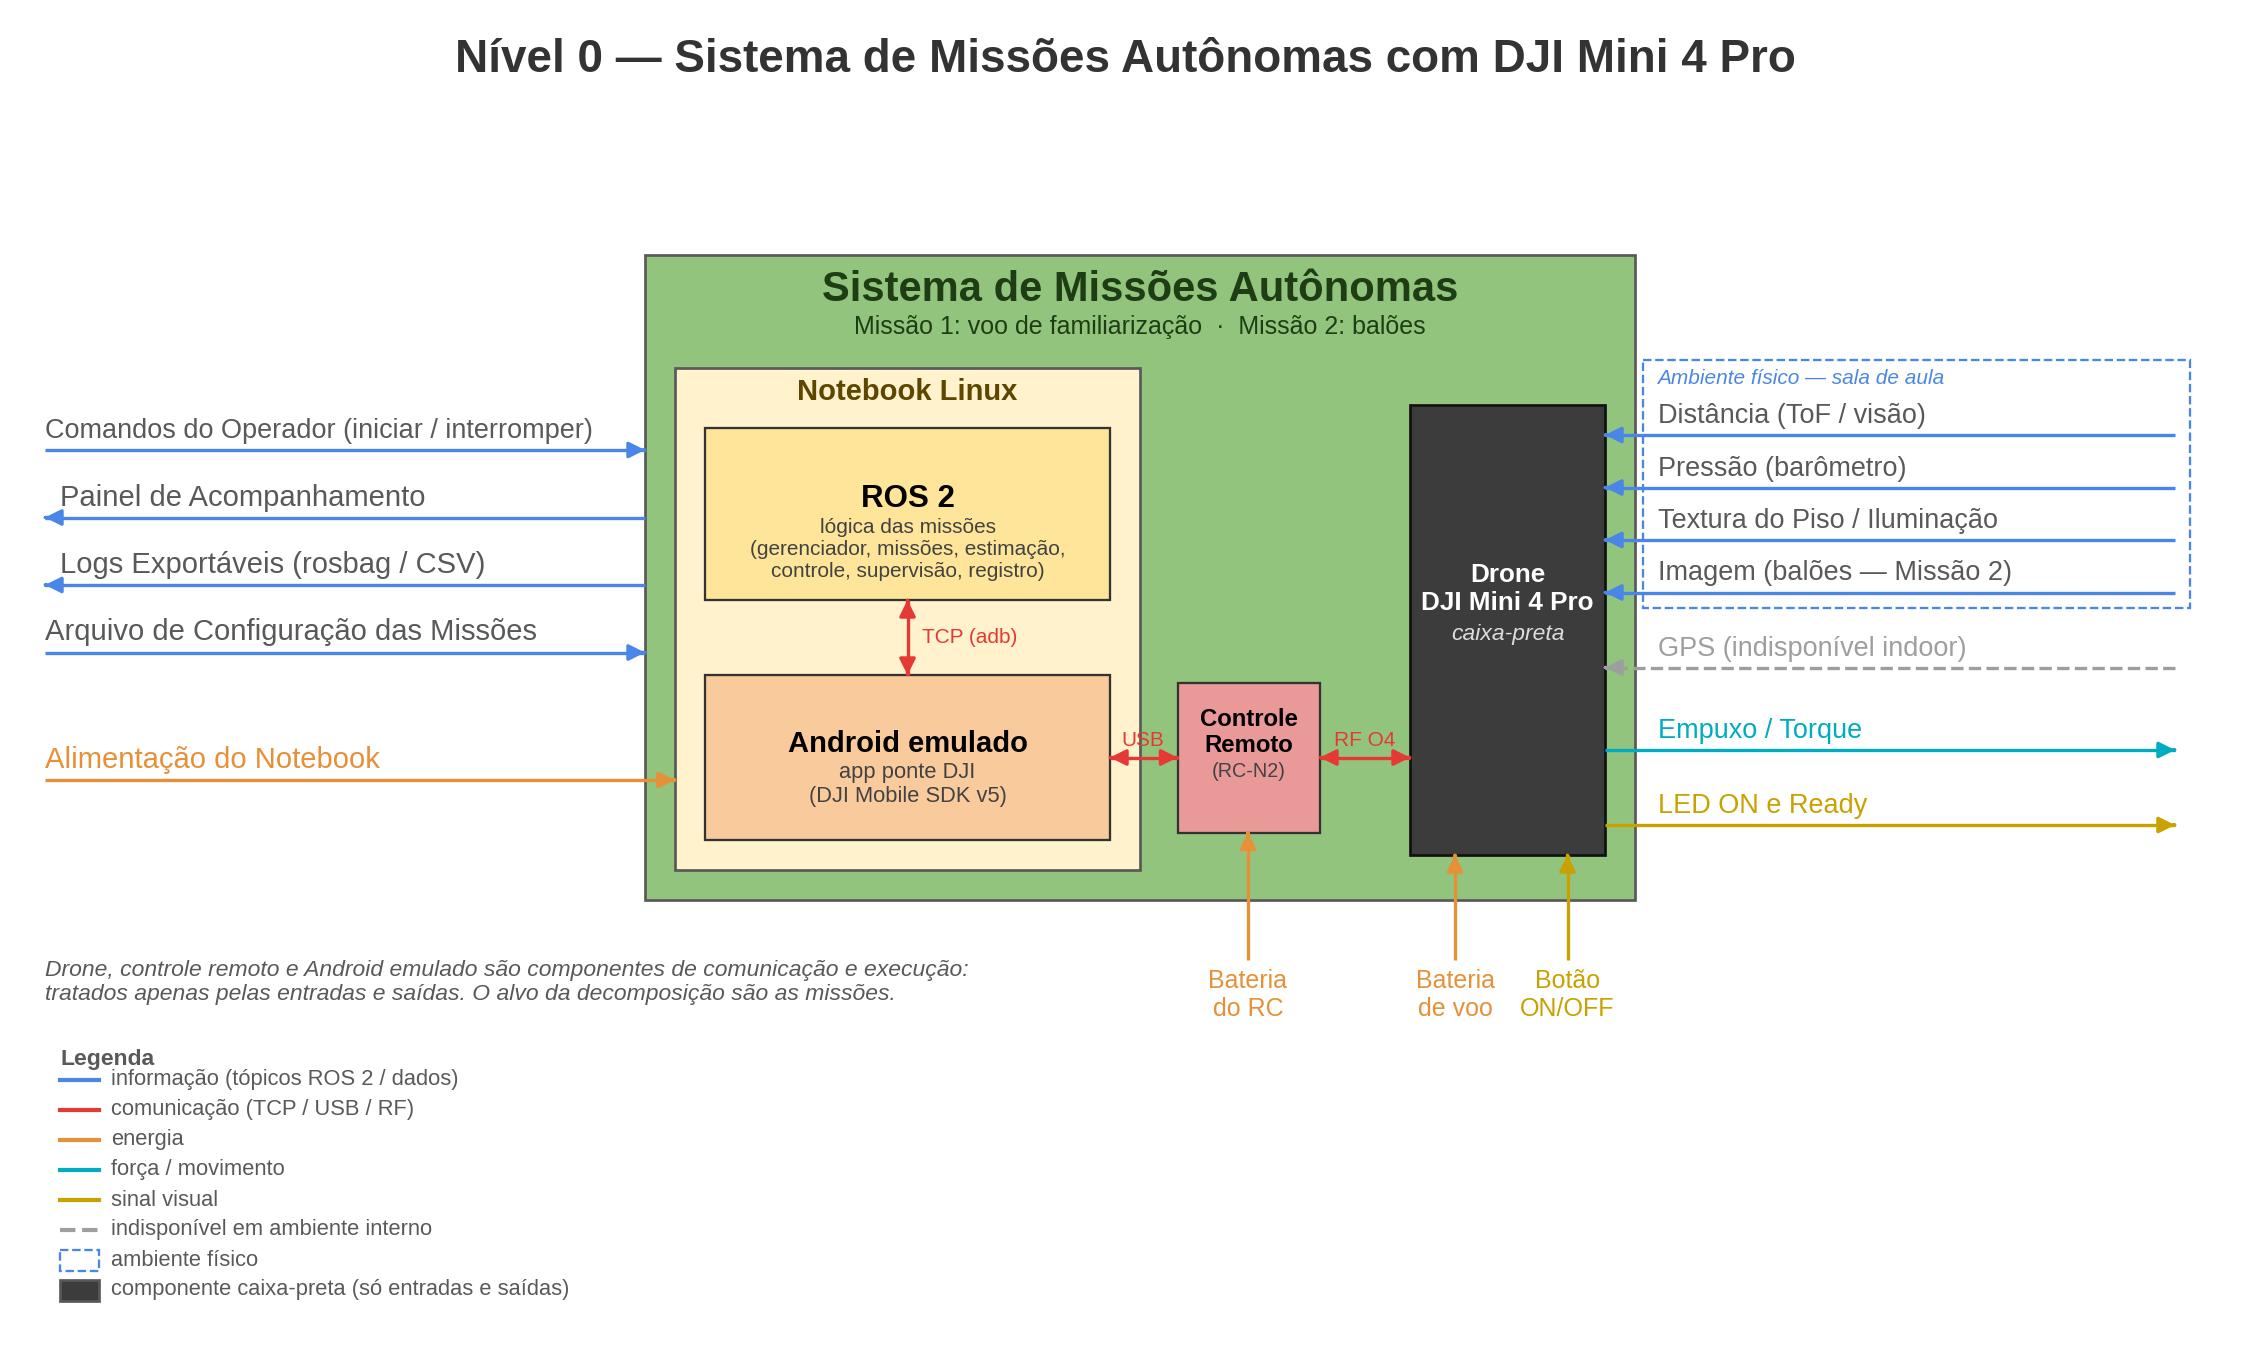
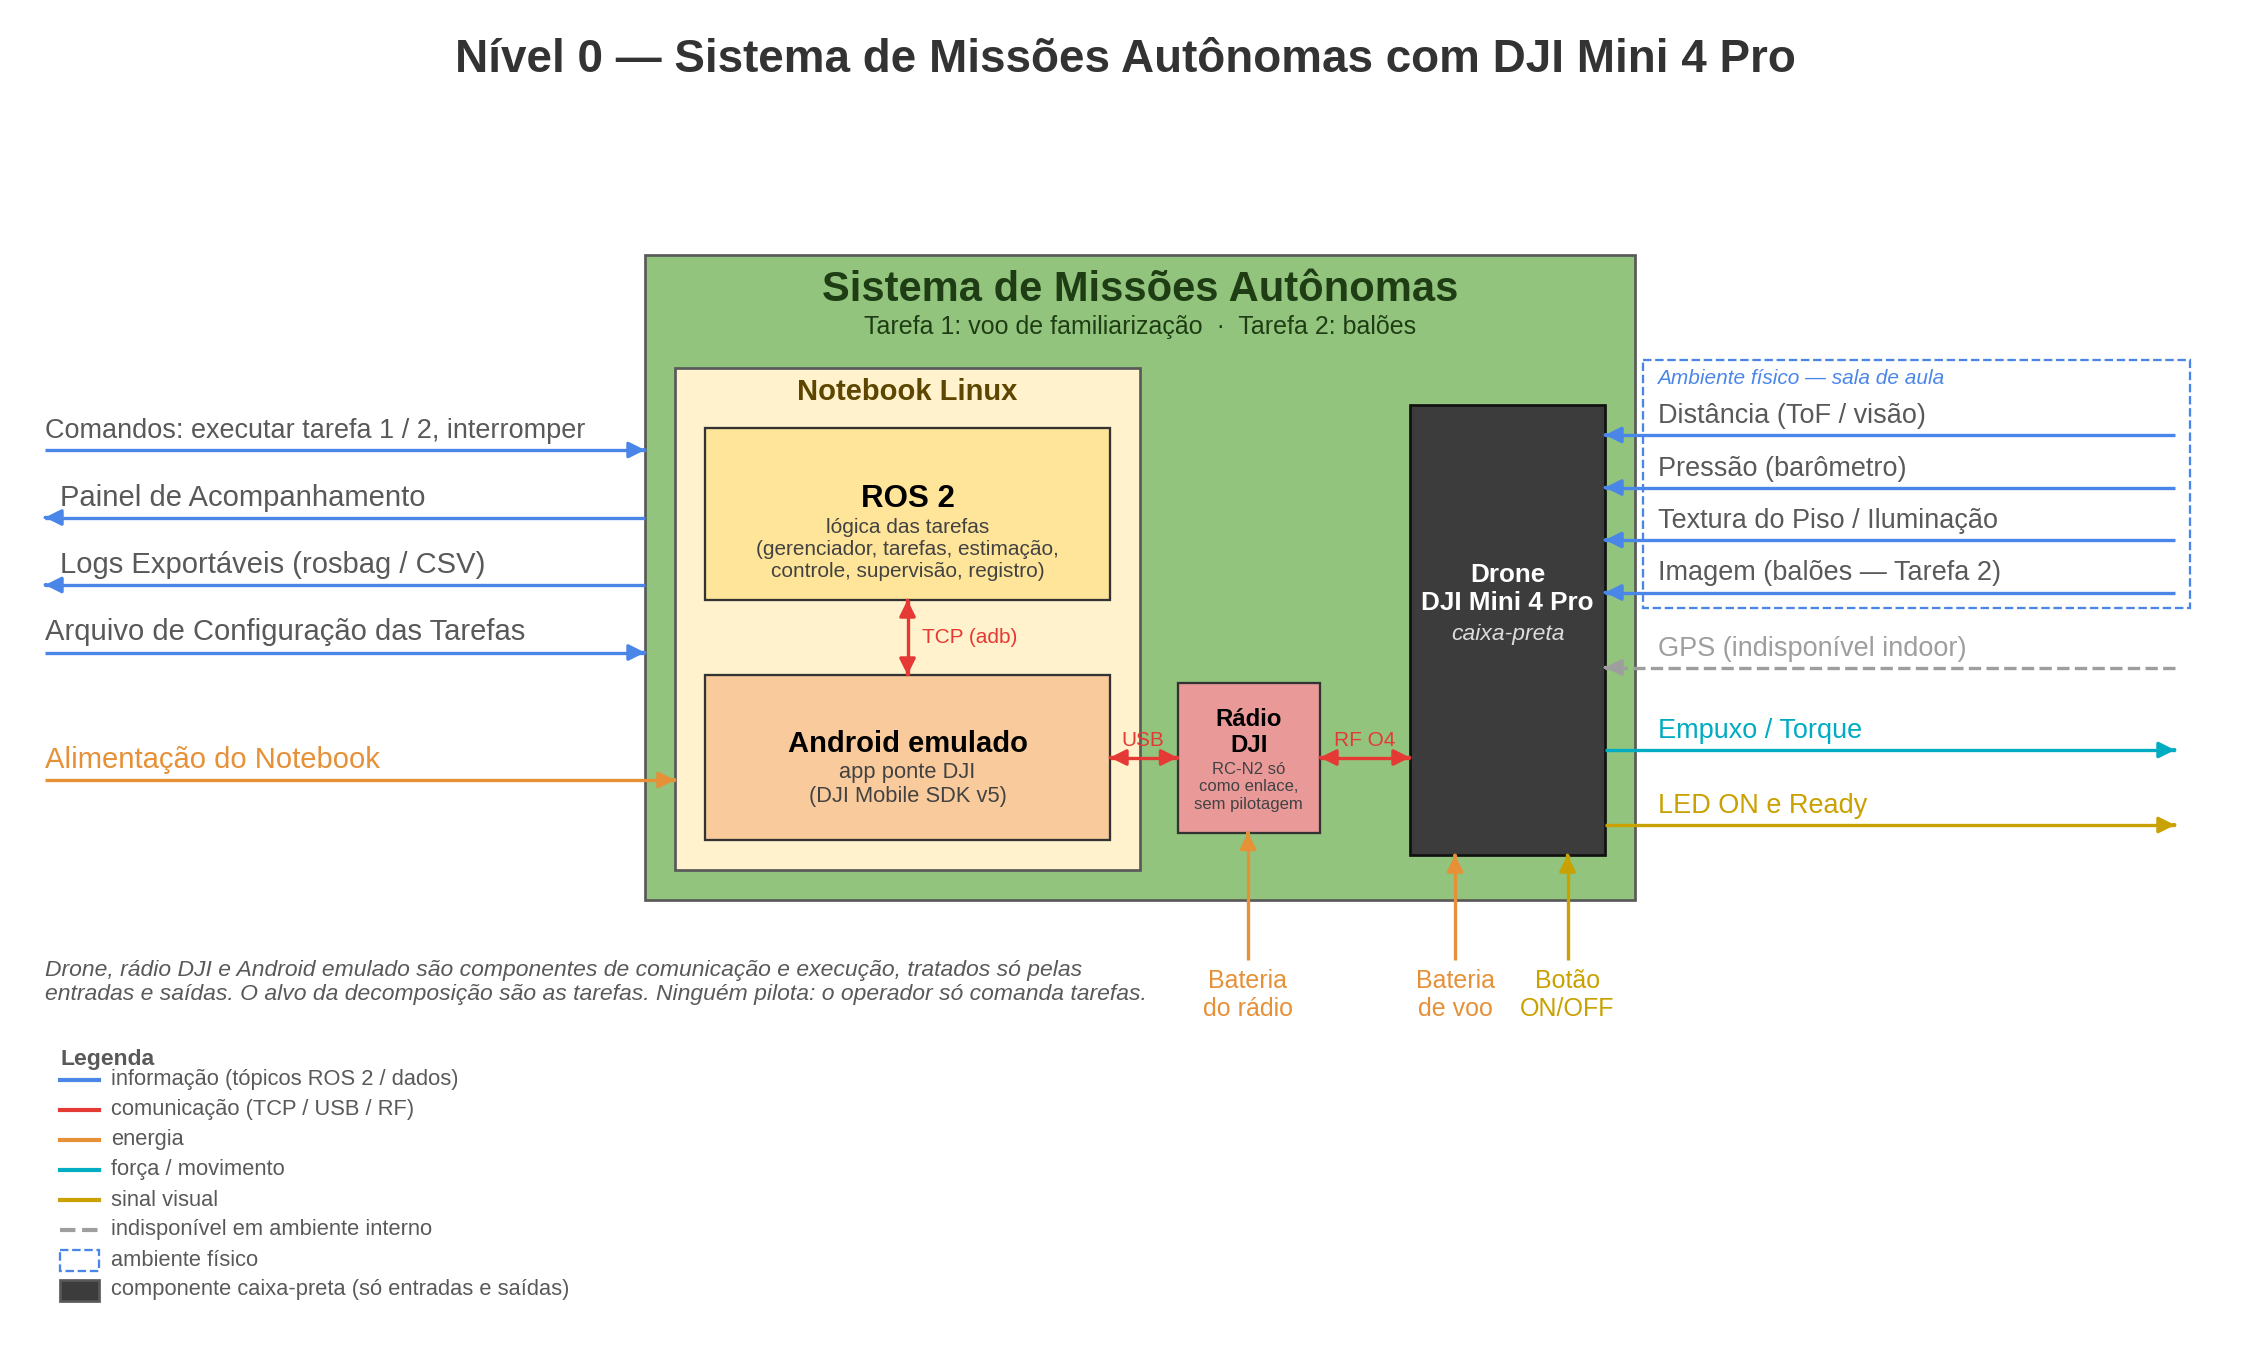
Diagramas: operador comanda tarefas, RC vira só enlace de rádio
Sem pilotagem: o operador só envia "executar tarefa 1/2" ou "interromper".
O RC-N2 continua fisicamente necessário como rádio do Mobile SDK (§6 do
enunciado), mas não é mais usado como controle.

diff --git a/diagramas/gerar_diagramas.py b/diagramas/gerar_diagramas.py
@@ -83,19 +83,19 @@ def nivel_0():
     # sistema de interesse
     c.box(430, 170, 1090, 600, "#93C47D")
     c.text(760, 180, "Sistema de Missões Autônomas", fs=20, ha="center", va="top", color="#1E3D14", weight="bold")
-    c.text(760, 210, "Missão 1: voo de familiarização  ·  Missão 2: balões", fs=12, ha="center", va="top", color="#1E3D14")
+    c.text(760, 210, "Tarefa 1: voo de familiarização  ·  Tarefa 2: balões", fs=12, ha="center", va="top", color="#1E3D14")
 
     # notebook
     c.box(450, 245, 760, 580, "#FFF2CC")
     c.text(605, 252, "Notebook Linux", fs=14, ha="center", va="top", weight="bold", color="#5D4600")
-    c.bloco(470, 285, 740, 400, "#FFE599", "ROS 2", "lógica das missões\n(gerenciador, missões, estimação,\ncontrole, supervisão, registro)",
+    c.bloco(470, 285, 740, 400, "#FFE599", "ROS 2", "lógica das tarefas\n(gerenciador, tarefas, estimação,\ncontrole, supervisão, registro)",
             fs=15, fs_sub=10)
     c.bloco(470, 450, 740, 560, "#F9CB9C", "Android emulado", "app ponte DJI\n(DJI Mobile SDK v5)", fs=14, fs_sub=10.5)
     c.arrow([(605, 400), (605, 450)], color=COM, both=True)
     c.text(615, 425, "TCP (adb)", fs=10, color=COM, va="center")
 
     # controle remoto e drone
-    c.bloco(785, 455, 880, 555, "#EA9999", "Controle\nRemoto", "(RC-N2)", fs=11.5, fs_sub=9.5)
+    c.bloco(785, 455, 880, 555, "#EA9999", "Rádio\nDJI", "RC-N2 só\ncomo enlace,\nsem pilotagem", fs=11.5, fs_sub=8)
     c.arrow([(740, 505), (785, 505)], color=COM, both=True)
     c.text(762, 500, "USB", fs=10, color=COM, ha="center")
     c.box(940, 270, 1070, 570, CAIXA_PRETA, ec="#111111", z=2)
@@ -106,13 +106,13 @@ def nivel_0():
 
     # entradas e saídas de informação (esquerda)
     c.arrow([(30, 300), (430, 300)], color=INFO)
-    c.text(30, 296, "Comandos do Operador (iniciar / interromper)", fs=13)
+    c.text(30, 296, "Comandos: executar tarefa 1 / 2, interromper", fs=13)
     c.arrow([(430, 345), (30, 345)], color=INFO)
     c.text(40, 341, "Painel de Acompanhamento", fs=14)
     c.arrow([(430, 390), (30, 390)], color=INFO)
     c.text(40, 386, "Logs Exportáveis (rosbag / CSV)", fs=14)
     c.arrow([(30, 435), (430, 435)], color=INFO)
-    c.text(30, 431, "Arquivo de Configuração das Missões", fs=14)
+    c.text(30, 431, "Arquivo de Configuração das Tarefas", fs=14)
     c.arrow([(30, 520), (450, 520)], color=EN)
     c.text(30, 516, "Alimentação do Notebook", fs=14, color=EN)
 
@@ -120,7 +120,7 @@ def nivel_0():
     c.box(1095, 240, 1460, 405, "none", ec=INFO, ls="--", lw=1.1, fill=False)
     c.text(1105, 246, "Ambiente físico — sala de aula", fs=10, va="top", color=INFO, style="italic")
     for y, nome in [(290, "Distância (ToF / visão)"), (325, "Pressão (barômetro)"),
-                    (360, "Textura do Piso / Iluminação"), (395, "Imagem (balões — Missão 2)")]:
+                    (360, "Textura do Piso / Iluminação"), (395, "Imagem (balões — Tarefa 2)")]:
         c.arrow([(1450, y), (1070, y)], color=INFO)
         c.text(1105, y - 4, nome, fs=13)
     c.arrow([(1450, 445), (1070, 445)], color=LIGHT, ls="--")
@@ -131,13 +131,13 @@ def nivel_0():
     c.text(1105, 546, "LED ON e Ready", fs=13, color=VIS)
 
     # energia e ação manual (abaixo)
-    for x, nome, cor, alvo in [(832, "Bateria\ndo RC", EN, 555), (970, "Bateria\nde voo", EN, 570),
+    for x, nome, cor, alvo in [(832, "Bateria\ndo rádio", EN, 555), (970, "Bateria\nde voo", EN, 570),
                                (1045, "Botão\nON/OFF", VIS, 570)]:
         c.arrow([(x, 640), (x, alvo)], color=cor)
         c.text(x, 646, nome, fs=12, ha="center", va="top", color=cor)
 
-    c.text(30, 640, "Drone, controle remoto e Android emulado são componentes de comunicação e execução:\n"
-                    "tratados apenas pelas entradas e saídas. O alvo da decomposição são as missões.",
+    c.text(30, 640, "Drone, rádio DJI e Android emulado são componentes de comunicação e execução, tratados só pelas\n"
+                    "entradas e saídas. O alvo da decomposição são as tarefas. Ninguém pilota: o operador só comanda tarefas.",
            fs=11, va="top", style="italic")
     legenda(c, 40, 720)
     c.save("nivel_0.png")
@@ -145,14 +145,14 @@ def nivel_0():
 
 # ------------------------------------------------------------------ Nível 1
 NOS_SUPERIORES = [
-    ("Interface do\nOperador", "painel; selecionar missão,\niniciar / interromper", "#D9EAD3",
-     ["pub /operador/comando", "sub /missao/status", "sub /falhas"]),
-    ("Gerenciador\nde Missões", "configuração, seleção da\nmissão, estados globais", "#FFD966",
-     ["pub /missao/ativa", "pub /dji/acao", "sub /operador/comando", "sub /missao/evento", "sub /falhas"]),
-    ("Missão 1", "voo de familiarização\nA→B→C→D→A, 4 × 60 s", "#FCE5CD",
-     ["pub /setpoint", "pub /missao/evento", "sub /estado", "sub /missao/ativa"]),
-    ("Missão 2", "balões: busca, aproximação\n0 < d ≤ 5 cm por 60 s", "#FCE5CD",
-     ["pub /setpoint", "pub /missao/evento", "sub /estado", "sub /alvos", "sub /missao/ativa"]),
+    ("Interface do\nOperador", "executar tarefa 1 / 2,\ninterromper; painel", "#D9EAD3",
+     ["pub /operador/comando", "sub /tarefa/status", "sub /falhas"]),
+    ("Gerenciador\nde Tarefas", "configuração, ativa a tarefa\npedida, estados globais", "#FFD966",
+     ["pub /tarefa/ativa", "pub /tarefa/status", "pub /dji/acao", "sub /operador/comando", "sub /tarefa/evento", "sub /falhas"]),
+    ("Tarefa 1", "voo de familiarização\nA→B→C→D→A, 4 × 60 s", "#FCE5CD",
+     ["pub /setpoint", "pub /tarefa/evento", "sub /estado", "sub /tarefa/ativa"]),
+    ("Tarefa 2", "balões: busca, aproximação\n0 < d ≤ 5 cm por 60 s", "#FCE5CD",
+     ["pub /setpoint", "pub /tarefa/evento", "sub /estado", "sub /alvos", "sub /tarefa/ativa"]),
     ("Registro", "rosbag2 + CSV", "#D9D9D9",
      ["sub (todos os", "tópicos)"]),
 ]
@@ -213,7 +213,7 @@ def nivel_1():
             fs=12.5, fs_sub=9)
     c.arrow([(cx_ponte, base[1]), (cx_ponte, 690)], color=COM, both=True)
     c.text(cx_ponte - 8, 676, "TCP (adb forward)", fs=9, color=COM, ha="right", va="center")
-    c.bloco(1130, 830, 1330, 890, "#EA9999", "Controle Remoto", "(RC-N2)", fs=12, fs_sub=9)
+    c.bloco(1130, 830, 1330, 890, "#EA9999", "Rádio DJI (RC-N2)", "só enlace — sem pilotagem", fs=12, fs_sub=9)
     c.arrow([(1230, 780), (1230, 830)], color=COM, both=True)
     c.text(1240, 815, "USB (passthrough)", fs=9, color=COM, va="center")
     c.box(1060, 930, 1370, 1125, CAIXA_PRETA, ec="#111111", z=2)
@@ -226,25 +226,25 @@ def nivel_1():
     # entradas e saídas do operador, configuração e logs
     x0_if, _ = centros["Interface do\nOperador"]
     c.arrow([(30, 230), (x0_if, 230)], color=INFO)
-    c.text(30, 226, "Comandos do Operador", fs=14)
+    c.text(30, 226, "Comandos: executar tarefa 1 / 2", fs=13)
     c.arrow([(x0_if, 262), (30, 262)], color=INFO)
     c.text(40, 258, "Painel de Acompanhamento", fs=14)
-    _, cx_ger = centros["Gerenciador\nde Missões"]
+    _, cx_ger = centros["Gerenciador\nde Tarefas"]
     c.arrow([(cx_ger, 72), (cx_ger, topo[0])], color=INFO)
-    c.text(cx_ger, 66, "Arquivo de Configuração das Missões (YAML)", fs=14, ha="center")
+    c.text(cx_ger, 66, "Arquivo de Configuração das Tarefas (YAML)", fs=14, ha="center")
     _, cx_reg = centros["Registro"]
     c.arrow([(cx_reg, topo[0]), (cx_reg, 72)], color=INFO)
     c.text(cx_reg, 66, "Logs Exportáveis (rosbag / CSV)", fs=14, ha="center")
     c.arrow([(30, 740), (350, 740)], color=EN)
     c.text(30, 736, "Alimentação do Notebook", fs=14, color=EN)
     c.arrow([(30, 860), (1130, 860)], color=EN)
-    c.text(30, 856, "Bateria do RC", fs=14, color=EN)
+    c.text(30, 856, "Bateria do rádio (RC)", fs=14, color=EN)
 
     # entradas e saídas físicas do drone
     c.box(1395, 925, 1705, 1030, "none", ec=INFO, ls="--", lw=1.1, fill=False)
     c.text(1400, 921, "Ambiente físico — sala de aula", fs=10, va="bottom", color=INFO, style="italic")
     for y, nome in [(950, "Distância (ToF / visão)"), (975, "Pressão (barômetro)"),
-                    (1000, "Textura do Piso / Iluminação"), (1025, "Imagem (balões — Missão 2)")]:
+                    (1000, "Textura do Piso / Iluminação"), (1025, "Imagem (balões — Tarefa 2)")]:
         c.arrow([(1700, y), (1370, y)], color=INFO)
         c.text(1405, y - 3, nome, fs=11)
     c.arrow([(1700, 1055), (1370, 1055)], color=LIGHT, ls="--")
@@ -257,10 +257,11 @@ def nivel_1():
         c.arrow([(x, 1190), (x, 1125)], color=cor)
         c.text(x, 1196, nome, fs=12, ha="center", va="top", color=cor)
 
-    c.text(370, 930, "Alvo da decomposição: as missões e os serviços ROS 2 que elas usam.\n"
-                     "Missão 1 e Missão 2 reutilizam gerenciador, estimação, controle,\n"
-                     "supervisão, registro e a ponte DJI; só a Missão 2 usa a percepção.\n\n"
-                     "Android emulado, controle remoto e drone: componentes de\n"
+    c.text(370, 930, "Alvo da decomposição: as tarefas e os serviços ROS 2 que elas usam.\n"
+                     "Tarefa 1 e Tarefa 2 reutilizam gerenciador, estimação, controle,\n"
+                     "supervisão, registro e a ponte DJI; só a Tarefa 2 usa a percepção.\n"
+                     "O operador só comanda \"executar tarefa N\" ou \"interromper\".\n\n"
+                     "Android emulado, rádio DJI e drone: componentes de\n"
                      "comunicação e execução, tratados só pelas entradas e saídas.",
            fs=11.5, va="top", style="italic", linespacing=1.4)
     legenda(c, 40, 1215)
